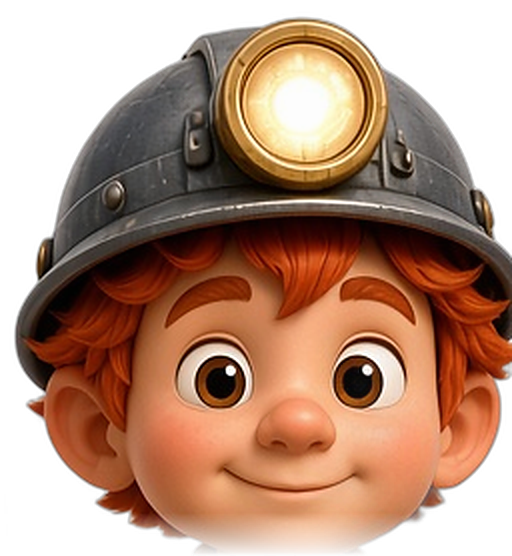
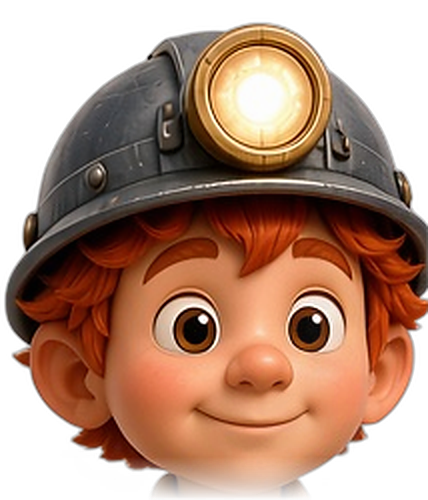
3/4 heads, blinking, troll neutral, big sieve

diff --git a/js/art.js b/js/art.js
@@ -4,23 +4,23 @@ const UA={};function ua(n){const i=new Image();i.src='assets/ui/'+n+'.png';UA[n]
 ['btn_purple','btn_teal','btn_round','scroll_banner','star','sign','frame','logo','win_dialog','win_hint','win_victory','win_mistake','bubble','node',
  'gem_purple','gem_teal','gem_amber','gem_broken','cart','pickaxe','heart','heart_grey','tile','tile_water','lock','plank','tex_gold','tex_steel'].forEach(ua);
 const SHARDS=[],SPL=[];for(let i=0;i<15;i++)SHARDS.push(ua('p_shards'+i));for(let i=0;i<7;i++)SPL.push(ua('p_splash'+i));
-const VIS={};['granit','iskorka','shester','troll'].forEach(w=>{VIS[w]=[0,1,2,3,4].map(i=>ua('v_'+w+i))});
+const VIS={};['granit','iskorka','shester','troll'].forEach(w=>{VIS[w]=(w==='troll'?[0,1,2,3,4,5,6]:[0,1,2,3,4,5]).map(i=>ua('v_'+w+i))});
 const BODY2={shester:ua('../sprites/shester_body')};
-const HF={granit:[.333,-.0094,.6144,.408],iskorka:[.0963,.1541,.6862,.3814],shester:[-.0409,-.0826,.8664,.6534],troll:[.4677,-.0177,.3096,.4668]};
+const HF={"granit": [0.3241, -0.0196, 0.6213, 0.4439], "iskorka": [0.0786, 0.146, 0.6717, 0.4247], "shester": [-0.0409, -0.0826, 0.8664, 0.6534], "troll": [0.4677, -0.0177, 0.3096, 0.4668]};
 const okI=i=>i&&i.complete&&i.naturalWidth>0;
 // серые варианты (заблокировано/не горит) — из той же картинки
 const GREY={};function grey(n){if(GREY[n])return GREY[n];const i=UA[n];if(!okI(i))return null;const c=document.createElement('canvas');c.width=i.naturalWidth;c.height=i.naturalHeight;const g=c.getContext('2d');g.drawImage(i,0,0);
  const d=g.getImageData(0,0,c.width,c.height),p=d.data;for(let k=0;k<p.length;k+=4){const l=(p[k]*.3+p[k+1]*.55+p[k+2]*.15)*.62+18;p[k]=l*.92;p[k+1]=l*.9;p[k+2]=l*1.08}g.putImageData(d,0,0);return GREY[n]=c}
 function dimg(n,x,y,w,h,o){o=o||{};const i=o.grey?grey(n):UA[n];if(!i||(i.complete===false)||(i.naturalWidth===0))return;X.drawImage(i,x,y,w,h)}
 // 9-slice: l,t,r,b — доли исходника; углы масштабируются одинаково, середина тянется
-function nine(n,x,y,w,h,l,t,r,b,flip){const i=UA[n];if(!okI(i))return;const iw=i.naturalWidth,ih=i.naturalHeight;const k=Math.min(w/iw,h/ih,1.6);
+function nine(n,x,y,w,h,l,t,r,b,flip,cap){const i=UA[n];if(!okI(i))return;const iw=i.naturalWidth,ih=i.naturalHeight;const k=Math.min(w/iw,h/ih,cap||1.6);
  const sx=[0,l*iw,iw-r*iw,iw],sy=[0,t*ih,ih-b*ih,ih],dx=[0,l*iw*k,w-r*iw*k,w],dy=[0,t*ih*k,h-b*ih*k,h];
  X.save();X.translate(x,y);if(flip){X.translate(w,0);X.scale(-1,1)}
  for(let a=0;a<3;a++)for(let c=0;c<3;c++){const sw=sx[c+1]-sx[c],sh=sy[a+1]-sy[a],ddw=dx[c+1]-dx[c],ddh=dy[a+1]-dy[a];if(sw>0&&sh>0&&ddw>0&&ddh>0)X.drawImage(i,sx[c],sy[a],sw,sh,dx[c]-.5,dy[a]-.5,ddw+1,ddh+1)}
  X.restore()}
-const SL={win_dialog:[.24,.3,.24,.3],win_mistake:[.2,.27,.2,.27],win_victory:[.27,.5,.27,.2],win_hint:[.2,.12,.2,.36],bubble:[.26,.3,.26,.4],frame:[.16,.25,.16,.25],
+const SL={win_dialog:[.24,.3,.24,.3],win_mistake:[.2,.27,.2,.27],win_victory:[.27,.5,.27,.2],win_hint:[.2,.12,.2,.36],bubble:[.26,.3,.26,.4],frame:[.16,.25,.16,.25,.75],
  btn_purple:[.12,.3,.12,.3],btn_teal:[.12,.3,.12,.3],scroll_banner:[.2,.22,.2,.22],sign:[.16,.3,.16,.3]};
-function win(n,x,y,w,h,flip){const s=SL[n];nine(n,x,y,w,h,s[0],s[1],s[2],s[3],flip)}
+function win(n,x,y,w,h,flip){const s=SL[n];nine(n,x,y,w,h,s[0],s[1],s[2],s[3],flip,s[4])}
 // ---- текст: сказочный шрифт, обводка, тень, градиент ----
 function hx(c){if(typeof c!=='string'||c[0]!=='#')return null;if(c.length===4)c='#'+c[1]+c[1]+c[2]+c[2]+c[3]+c[3];return[parseInt(c.slice(1,3),16),parseInt(c.slice(3,5),16),parseInt(c.slice(5,7),16)]}
 function mix(a,b,k){return`rgb(${a.map((v,i)=>Math.round(v+(b[i]-v)*k)).join(',')})`}
@@ -98,8 +98,9 @@ function visFor(c){if(c.forceV!=null)return c.forceV;const talking=talk&&talk.wh
   v.env=v.env*.6+a*.4;let tgt=v.env<.1?0:v.env<.28?1:v.env<.55?(Math.floor(T*4.3+c.x)%3===0?3:1):2;
   if(c.n==='troll'&&tgt===2&&Math.floor(T*3)%2)tgt=4;
   if(T-v.t>.085&&tgt!==v.f){v.f=tgt;v.t=T}return v.f}
- if(c.n==='troll'){if(c.mood==='laugh'&&T-c.moodT<1.6)return Math.floor(T*7)%2?4:2;if(c.wob&&T-c.wob<1)return 3;if(c.hit&&T-c.hit<1)return 3;if(c.mood==='angry'&&T-c.moodT<2)return 0;return 0}
+ if(c.n==='troll'){if(c.mood==='laugh'&&T-c.moodT<1.6)return Math.floor(T*7)%2?4:2;if(c.wob&&T-c.wob<1)return 3;if(c.hit&&T-c.hit<1)return 3;if(c.mood==='angry'&&T-c.moodT<2)return 6;return 0}
  if(c.wob&&T-c.wob<1.2)return 3;if(c.jump&&T-c.jump<1.2)return 4;if(c.mood==='happy'&&T-c.moodT<2)return 4;return 0}
+function blinkOn(c){if(c.forceV!=null)return false;if(!c.blN){c.blN=T+rnd(1,4);c.bl2=0}if(T>c.blN+.12){if(!c.bl2&&Math.random()<.25){c.bl2=1;c.blN=T+.12}else{c.bl2=0;c.blN=T+rnd(2.5,5)}}return T>=c.blN&&T<c.blN+.12}
 function drawHero(c){const im=IM[c.n],R=RIG[c.n];if(!okI(im))return;const ph=c.x*.013;const talking=talk&&talk.who===c.n;
  if(!c.fidT)c.fidT=T+rnd(3,7);if(T>c.fidT&&!c.fid){c.fid={granit:'axe',iskorka:Math.random()<.5?'tail':'wing',shester:'key',troll:'stomp'}[c.n];c.fid0=T}
  if(c.fid){c.fidK=(T-c.fid0)/1.2;if(c.fid==='stomp'&&!c.stomped&&c.fidK>.5){c.stomped=1;if(scene==='l5'||scene==='intro'){shake=Math.max(shake,7);SFX.hit();burst(c.x,c.y,14,'shard',35,.5)}}if(c.fidK>=1){c.fid=null;c.stomped=0;c.fidT=T+rnd(4,8)}}
@@ -121,7 +122,7 @@ function drawHero(c){const im=IM[c.n],R=RIG[c.n];if(!okI(im))return;const ph=c.x
  R.parts.forEach(p=>drawPart(body,w,h,p.r,p.p,p.f?p.f(T+ph,c):0,p.sx?p.sx(T+ph,c):null));
  X.save();const hp=R.head.p;X.translate(hp[0]*w,hp[1]*h);X.rotate(headA);X.translate(-hp[0]*w,-hp[1]*h);
  X.save();X.beginPath();const hr=R.head.r;X.rect(hr[0]*w-1,hr[1]*h-1,(hr[2]-hr[0])*w+2,(hr[3]-hr[1])*h+2);X.clip();X.drawImage(body,0,0,w,h);X.restore();
- const f=HF[c.n],v=VIS[c.n][visFor(c)];if(okI(v))X.drawImage(v,f[0]*w,f[1]*h,f[2]*w,f[3]*h);
+ let vf=visFor(c);if(blinkOn(c)&&vf===0)vf=5;const f=HF[c.n],v=VIS[c.n][vf];if(okI(v))X.drawImage(v,f[0]*w,f[1]*h,f[2]*w,f[3]*h);
  X.restore();X.restore();
  if(puz>0&&c.n!=='troll'){const hx2=c.x+(c.flip?-1:1)*(R.head.p[0]-.5)*w,hy=c.y-h*1.02+dy;txt('?',hx2+Math.sin(T*6)*4,hy-10*Math.sin(puz*3),44*Math.min(1,puz*3),'#ffe066')}
  if(c.mood==='laugh'&&T-c.moodT<1.5)txt('Ха-ха!',c.x,c.y-h*1.05,40,'#c8ff9a')}

diff --git a/js/levels.js b/js/levels.js
@@ -29,7 +29,7 @@ SC.map={enter(){cast=[{n:'iskorka',x:110,y:715,h:200}];if(!SV.seenMap){SV.seenMa
   const sc=SV.secret.reduce((a,b)=>a+b,0);win('sign',900,150,330,62);gem(1195,181,17,300,'',{glow:1});txt('Редкие кристаллы: '+sc+' из 4',1040,182,24,'#ffe9b8',{st:'#2a1406',lw:4});drawCast()},
  tap(x,y){MP.forEach((p,i)=>{if(Math.hypot(x-p[0],y-p[1])<70){if(i<SV.open){SFX.click();go('l'+(i+1))}else{SFX.bad();oops('iskorka')}}})}};
 // ---------- общая рамка уровня ----------
-const SECRET_POS=[[1215,250],[95,215],[1200,560],[70,330]];
+const SECRET_POS=[[1215,250],[95,215],[1235,330],[70,330]];
 const DEF={};
 function levelScene(n){SC['l'+n]={enter(){if(LV&&LV.n===n&&LV.resume){LV.resume=false;cast=LV.cast;return}
   LV={n,r:0,mist:0,streak:0,done:false,banner:null,msg:null,def:DEF[n]};DEF[n].init(LV);cast=LV.cast;run(()=>DEF[n].start(LV))},
@@ -115,19 +115,19 @@ function ans2(L,guess){if(G.busy||L.done||L.phase!=='ask')return;const pr=isP(L.
  if(!await roundDone())next2(L)})}
 levelScene(2);
 // ---------- УРОВЕНЬ 3: решето Эратосфена ----------
-const STEPS3=[1,2,3,5,7],SK3=['l3s1','l3s2','l3s3','l3s5','l3s7'],CX3=430,CY3=84,CW3=46,CH3=38;
+const STEPS3=[1,2,3,5,7],SK3=['l3s1','l3s2','l3s3','l3s5','l3s7'],CX3=180,CY3=104,CW3=92,CH3=56;
 function cell3(n){const i=n-1;return{x:CX3+(i%10)*CW3+CW3/2,y:CY3+Math.floor(i/10)*CH3+CH3/2}}
-DEF[3]={init(L){L.cast=[{n:'iskorka',x:150,y:712,h:250},{n:'granit',x:1150,y:712,h:250,flip:1}];L.st=new Array(101).fill(0);L.wt={};L.bad={};L.cnt=0},
+DEF[3]={init(L){L.cast=[{n:'iskorka',x:88,y:715,h:175},{n:'granit',x:1195,y:715,h:180,flip:1}];L.st=new Array(101).fill(0);L.wt={};L.bad={};L.cnt=0},
  async start(L){await say('l3i');await say(SK3[0])},
- draw(L){win('frame',CX3-40,CY3-34,CW3*10+80,CH3*10+68);
+ draw(L){win('frame',CX3-32,CY3-28,CW3*10+64,CH3*10+56);
   for(let n=1;n<=100;n++){const{x,y}=cell3(n),s=L.st[n];const hl=L.hintN===n&&T-L.hintT<5;
    if(s!==2){const sh=L.bad[n]&&T-L.bad[n]<.6?Math.sin(T*60)*3:0;if(s===3){const k=clamp((T-(L.wt[n]||0))*2.5,0,1);dimg('tile',x-CW3/2+sh,y-CH3/2-1,CW3,CH3+2);X.save();X.globalAlpha=k;dimg('tile_water',x-CW3/2,y-CH3/2-1,CW3,CH3+2);X.restore()}else dimg('tile',x-CW3/2+sh,y-CH3/2-1,CW3,CH3+2,{grey:s===1})}
-   if(s===2){gem(x,y,17,[45,190,300,150,20][n%5],n,{fs:n>9?15:18,glow:1.1});continue}
-   let a=1,col='#4a2c12',dy=0;if(s===3){const k=clamp((T-(L.wt[n]||0))*2.5,0,1);a=1-.72*k;dy=k*4;col='#2a6c90'}if(s===1)col='#777';
+   if(s===2){gem(x,y,25,[45,190,300,150,20][n%5],n,{fs:n>99?24:30,glow:1.1});continue}
+   let a=1,col='#4a2c12',dy=0;if(s===3){const k=clamp((T-(L.wt[n]||0))*2.5,0,1);a=1-.45*k;dy=k*2;col='#2a6c90'}if(s===1)col='#777';
    if(L.bad[n]&&T-L.bad[n]<.6){col='#d02020';x+Math.sin(T*50)*3}
-   X.globalAlpha=s===3?a+.15:1;const bd=L.bad[n]&&T-L.bad[n]<.6;txt(String(n),x+(bd?Math.sin(T*60)*3:0),y+dy,22,hl?'#fff6b0':bd?'#ff9a9a':s===3?'#d8f4ff':s===1?'#b8b8c0':'#fff1d0',{st:hl?'#a05a00':s===3?'#0a3a5a':'#2a1406',lw:hl?6:4});X.globalAlpha=1}
-  if(L.wash){win('scroll_banner',435,520,440,70);txt('Смываем числа, кратные '+L.wash,655,555,28,'#0a3a5a',{st:'rgba(230,250,255,.85)',lw:4})}
-  if(L.cnt){win('sign',470,600,370,74);txt('Простых чисел: '+L.cnt,655,637,36,'#fff3b0',{st:'#2a1406',lw:5})}},
+   X.globalAlpha=s===3?a+.15:1;const bd=L.bad[n]&&T-L.bad[n]<.6;txt(String(n),x+(bd?Math.sin(T*60)*3:0),y+dy,34,hl?'#fff6b0':bd?'#ff9a9a':s===3?'#d8f4ff':s===1?'#b8b8c0':'#fff1d0',{st:hl?'#a05a00':s===3?'#0a3a5a':'#2a1406',lw:hl?6:4});X.globalAlpha=1}
+  if(L.wash){win('scroll_banner',420,652,440,66);txt('Смываем числа, кратные '+L.wash,640,686,28,'#0a3a5a',{st:'rgba(230,250,255,.85)',lw:4})}
+  if(L.cnt){win('sign',455,650,370,68);txt('Простых чисел: '+L.cnt,640,684,36,'#fff3b0',{st:'#2a1406',lw:5})}},
  tap(L,x,y){const c=Math.floor((x-CX3)/CW3),r=Math.floor((y-CY3)/CH3);if(c<0||c>9||r<0||r>9)return;tap3(L,r*10+c+1)},
  async hint(L){L.hintN=STEPS3[L.r];L.hintT=T;await say(SK3[L.r])},
  wrong(L){tap3(L,4)},
@@ -137,7 +137,7 @@ function tap3(L,n){if(G.busy||L.done)return;const ex=STEPS3[L.r];run(async()=>{
  if(n!==ex){L.mist++;L.bad[n]=T;SFX.bad();oops('iskorka');const s=L.st[n],f=fac(n);let m;
   if(ex===1)m='Сначала нажми на число 1.';else if(s===3)m=n+' уже смыто: '+n+' = '+f[0]+' × '+(n/f[0])+'.';else if(s===2)m=n+' уже обведено — оно простое.';else if(n===1)m='1 — ни простое, ни составное.';
   else if(!isP(n))m=n+' = '+f[0]+' × '+(n/f[0])+' — составное, его смоет вода.';else m=n+' простое, но сначала самое маленькое: '+ex+'.';
-  banner(m,'#ffd0d0',560);await say('l3w');return}
+  banner(m,'#ffd0d0',600);await say('l3w');return}
  L.banner=null;SFX.ok();const{x,y}=cell3(n);burst(x,y,26,'spark',50);
  if(n===1){L.st[1]=1;await say('l3one')}else{L.st[n]=2;L.wash=n;await wait(300);let i=0;
   for(let m=2*n;m<=100;m+=n){if(L.st[m]===0){L.st[m]=3;L.wt[m]=T;const c=cell3(m);drops(c.x,c.y,7);if(i++%3===0)SFX.splash();await wait(G.fast?0:80)}}
